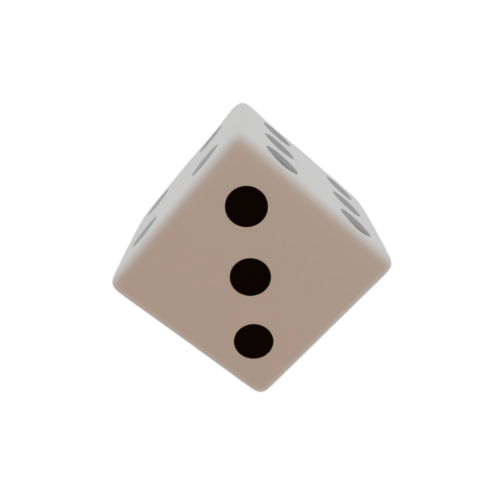
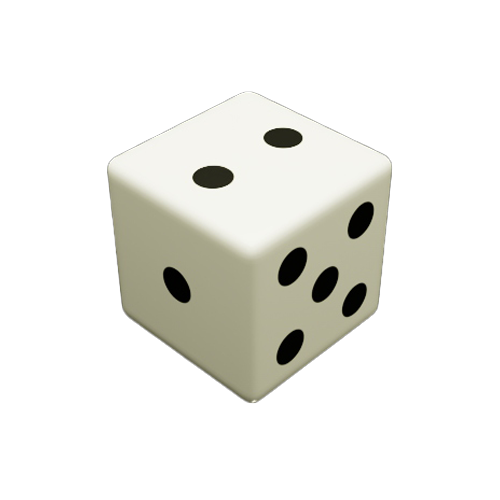
Changed d6_corner model, made diceRoll keyframes look a little better, added Fives

diff --git a/src/App.js b/src/App.js
@@ -63,7 +63,9 @@ import putCoin from "./DiceImg/putCoin.MP3";
 function App() {
   const SkinImgs = [BakunawaRoller, BakunawaRollerG, BakunawaRollerR, CastleRoller, BakunawiJr];
   const D6Imgs = [D6_six, D6_five, D6_four, D6_three, D6_two, D6_one];
-  const D20Imgs = [D20_1, D20_2, D20_3, D20_4, D20_5, D20_6, D20_7, D20_8, D20_9, D20_10, D20_11, D20_12, D20_13, D20_14, D20_15, D20_16, D20_17, D20_18, D20_19, D20_20];
+  const D20Imgs = [
+    D20_1, D20_2, D20_3, D20_4, D20_5, D20_6, D20_7, D20_8, D20_9, D20_10,
+    D20_11, D20_12, D20_13, D20_14, D20_15, D20_16, D20_17, D20_18, D20_19, D20_20];
   const CoinImgs = [Coin1, Coin2];
 
   const [d6Images, setD6Images] = useState([]);
@@ -80,10 +82,9 @@ function App() {
   const [coinCount, setCoinCount] = useState(0);
   const [showSkin, setShowSkin] = useState(false);
   const [statsVisible, setStatsVisible] = useState(false);
-  const [shakeEnabled, setShakeEnabled] = useState(true); // State to manage shake functionality
+  const [shakeEnabled, setShakeEnabled] = useState(true);
+  const [fivesMode, setFivesMode] = useState(false);
   const totalDice = d6Count + d20Count + coinCount;
-
-  
 
   const [stats, setStats] = useState({
     nat20: 0,
@@ -92,51 +93,21 @@ function App() {
     d6nat1: 0,
     heads: 0,
     tails: 0,
+    fives: 0,
   });
 
-  const [unlockedSkins, setUnlockedSkins] = useState([true, true, true, false, false]); // Only first 3 are unlocked initially
+  const [unlockedSkins, setUnlockedSkins] = useState([true, true, true, false, false]);
 
-  useEffect(() => {
-    let lastX = 0, lastY = 0, lastZ = 0, lastTime = 0;
-    const SHAKE_THRESHOLD = 40; // Adjust this value to change sensitivity
-  
-    const handleMotion = (event) => {
-      if (!event.accelerationIncludingGravity) return;
-  
-      const { x, y, z } = event.accelerationIncludingGravity;
-      const currentTime = Date.now();
-      const timeDiff = currentTime - lastTime;
-  
-      // Prevent multiple rolls while one is already in progress
-      if (isRolling || timeDiff < 200) return;
-      if (!shakeEnabled) return; // Check if shake is enabled
-  
-      if (timeDiff > 200) {
-        const speed = Math.abs(x - lastX) + Math.abs(y - lastY) + Math.abs(z - lastZ);
-        if (speed > SHAKE_THRESHOLD) {
-          rollDice();
-        }
-        lastX = x;
-        lastY = y;
-        lastZ = z;
-        lastTime = currentTime;
-      }
-    };
-  
-    window.addEventListener("devicemotion", handleMotion);
-    return () => {
-      window.removeEventListener("devicemotion", handleMotion);
-    };
-  }, [isRolling, d6Count, d20Count, shakeEnabled]);
-
-   // Play sound when dice or coin count changes
-   const playSound = (sound) => {
+  const playSound = (sound) => {
     const audio = new Audio(sound);
     audio.playbackRate = 0.9 + Math.random() * 0.1;
     audio.play();
   };
 
+  const cancelFivesMode = () => setFivesMode(false);
+
   const handleD6CountChange = (change) => {
+    cancelFivesMode();
     if (change < 0 && d6Count > 0) {
       playSound(takeDice);
       setD6Count(prev => Math.max(prev + change, 0));
@@ -145,9 +116,9 @@ function App() {
       setD6Count(prev => prev + 1);
     }
   };
-  
 
   const handleD20CountChange = (change) => {
+    cancelFivesMode();
     if (change < 0 && d20Count > 0) {
       playSound(takeDice);
       setD20Count(prev => Math.max(prev + change, 0));
@@ -156,9 +127,9 @@ function App() {
       setD20Count(prev => prev + 1);
     }
   };
-  
 
   const handleCoinCountChange = (change) => {
+    cancelFivesMode();
     if (change < 0 && coinCount > 0) {
       playSound(takeCoin);
       setCoinCount(prev => Math.max(prev + change, 0));
@@ -167,6 +138,15 @@ function App() {
       setCoinCount(prev => prev + 1);
     }
   };
+
+  const activateFivesMode = () => {
+    alert("Fives is a game where you get 5 dice, and roll them until you get 5 of a kind. First player to get it wins!");
+    setFivesMode(true);
+    setD6Count(5);
+    setD20Count(0);
+    setCoinCount(0);
+  };
+
   
   
    // Effect to update dice images immediately when their counts change
@@ -207,6 +187,7 @@ function App() {
     let finalCoinResults = [];
   
     const rollInterval = setInterval(() => {
+      let finalD6Results = [];
       let d6Results, d20Results, coinResults;
   
       if (counter % 2 === 0) {
@@ -235,6 +216,14 @@ function App() {
       if (counter === 7) { //1 below the real number, as arrays start from 0. 
         let newStats = { ...stats };
         let newUnlocked = [...unlockedSkins];
+
+        if (fivesMode) {
+          const allSame = finalD6Results.every(val => val === finalD6Results[0]);
+          if (allSame && finalD6Results.length === 5) {
+            alert("FIVE!");
+            newStats.fives += 1;
+          }
+        }
   
         d20Results.forEach((img) => {
           const val = D20Imgs.indexOf(img);
@@ -304,6 +293,8 @@ function App() {
         <p>D6 Nat1s: {stats.d6nat1}</p>
         <p>Coin Heads: {stats.heads}</p>
         <p>Coin Tails: {stats.tails}</p>
+
+        <p>Fives: {stats.fives}</p>
       </div>
 
       {/* Skin Selection */}
@@ -362,7 +353,12 @@ function App() {
               {shakeEnabled ? 'Disable Shake' : 'Enable Shake'}
             </button> 
           </div>
+
+          <div style={{ marginTop: '20px' }}>
+          <h2>Fives Game Mode</h2>
+          <button className="adjust-btn" onClick={activateFivesMode}>Play Fives</button>
         </div>
+      </div>
 
       {/* Instructions */}
       <h3 style={{ color: 'white' }}>This is a dice prototype! Test it out!</h3>

diff --git a/src/App.css b/src/App.css
@@ -60,9 +60,11 @@ body, html {
 
 @keyframes diceRoll {
   0% { transform: translateY(0) rotate(0deg); }
-  30% { transform: translateY(-150px) rotate(90deg); }
-  50% { transform: translateY(0) rotate(180deg); }
-  70% { transform: translateY(-20px) rotate(27deg); }
+  15% { transform: translateY(-75px) rotate(90deg); }
+  30% { transform: translateY(-150px) rotate(180deg); }
+  45% { transform: translateY(0px) rotate(270deg); }
+  70% { transform: translateY(-20px) rotate(320deg); }
+  85% { transform: translateY(-25px) rotate(360deg); }
   100% { transform: translateY(0) rotate(360deg); }
 }
 
